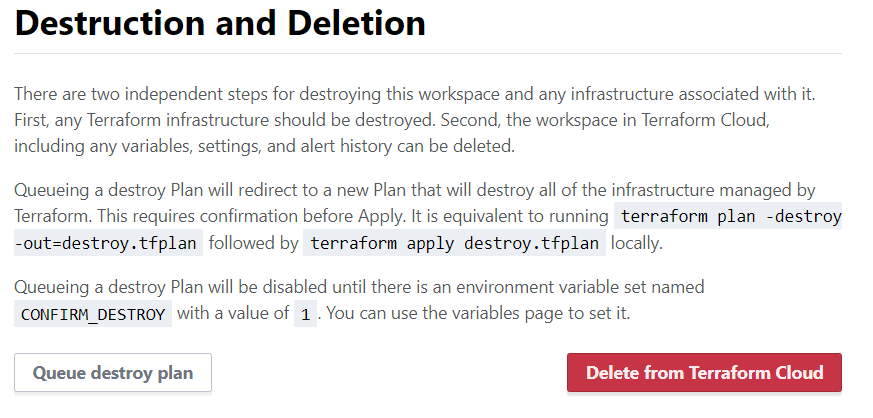
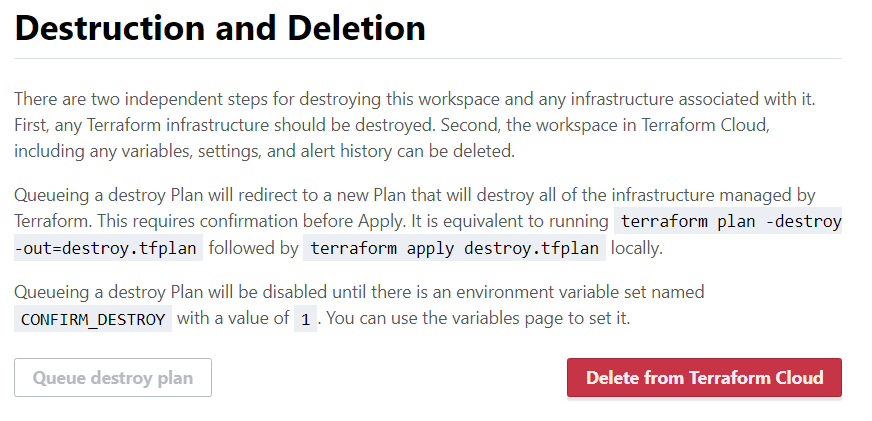
Update destroy slides.

diff --git a/docs/azure/tfe/slides-tfe.md b/docs/azure/tfe/slides-tfe.md
@@ -1448,17 +1448,11 @@ TODO: Add another lab exercise in here, give the students more experience with V
 name: destroy-your-application
 Destroy Your Application
 -------------------------
-Either from the command line, or the GUI, destroy your web application. We're going to rebuild it from our code repo in the next chapter.
+.center[![:scale 80%](images/destroy_gui.png)]
 
-Command Line:
-```powershell
-terraform destroy -auto-approve
-```
+Go into the Destruction and Deletion settings for your workspace and queue up a Destroy plan. Remember that you'll need a `CONFIRM_DESTROY` environment variable in order to enable this.
 
-GUI:
-.center[![:scale 100%](images/destroy_gui.png)]
-
-Do not click the red Destroy from Terraform Enterprise button. This will delete your entire workspace. Remember to confirm the destroy action from within the UI.
+Do not click the red Destroy from Terraform Cloud button. This will delete your entire workspace. Remember to confirm the destroy action from within the UI.
 
 ---
 name: tfe-chapter-6-review
